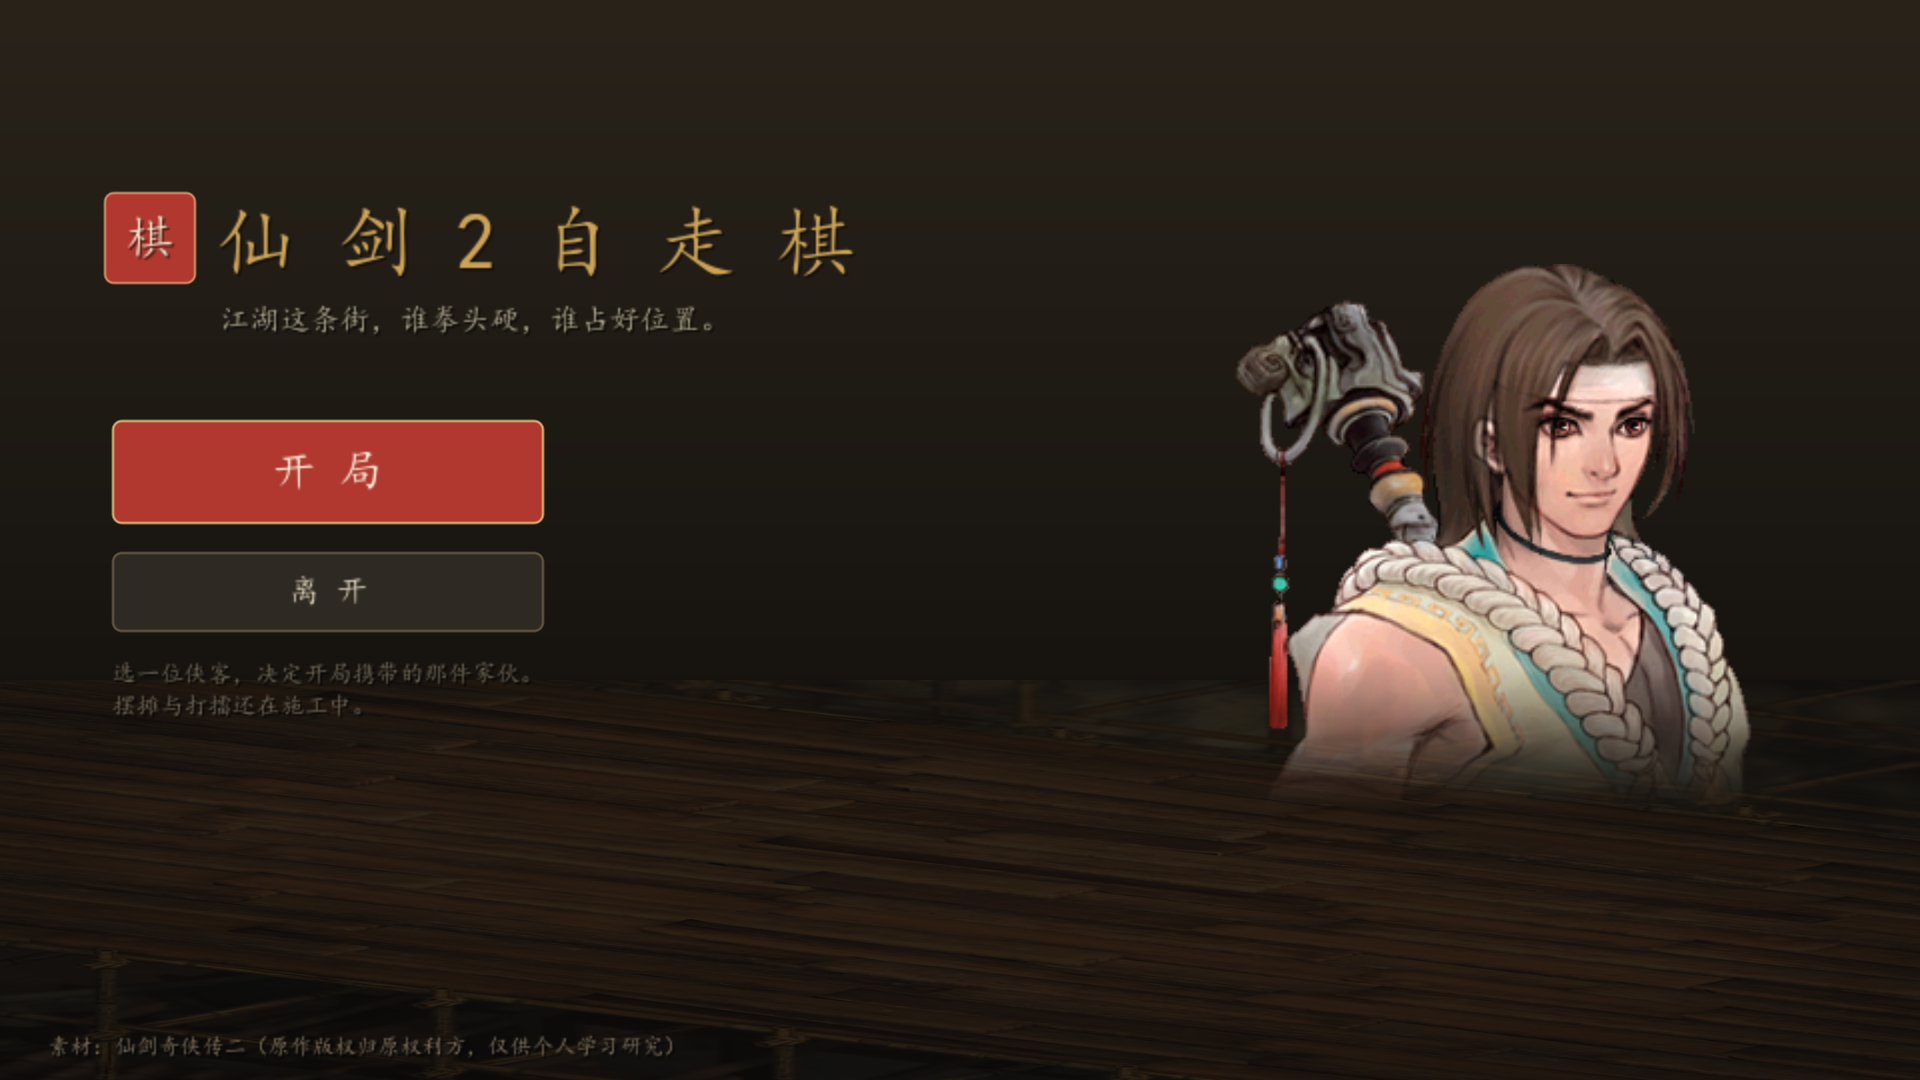
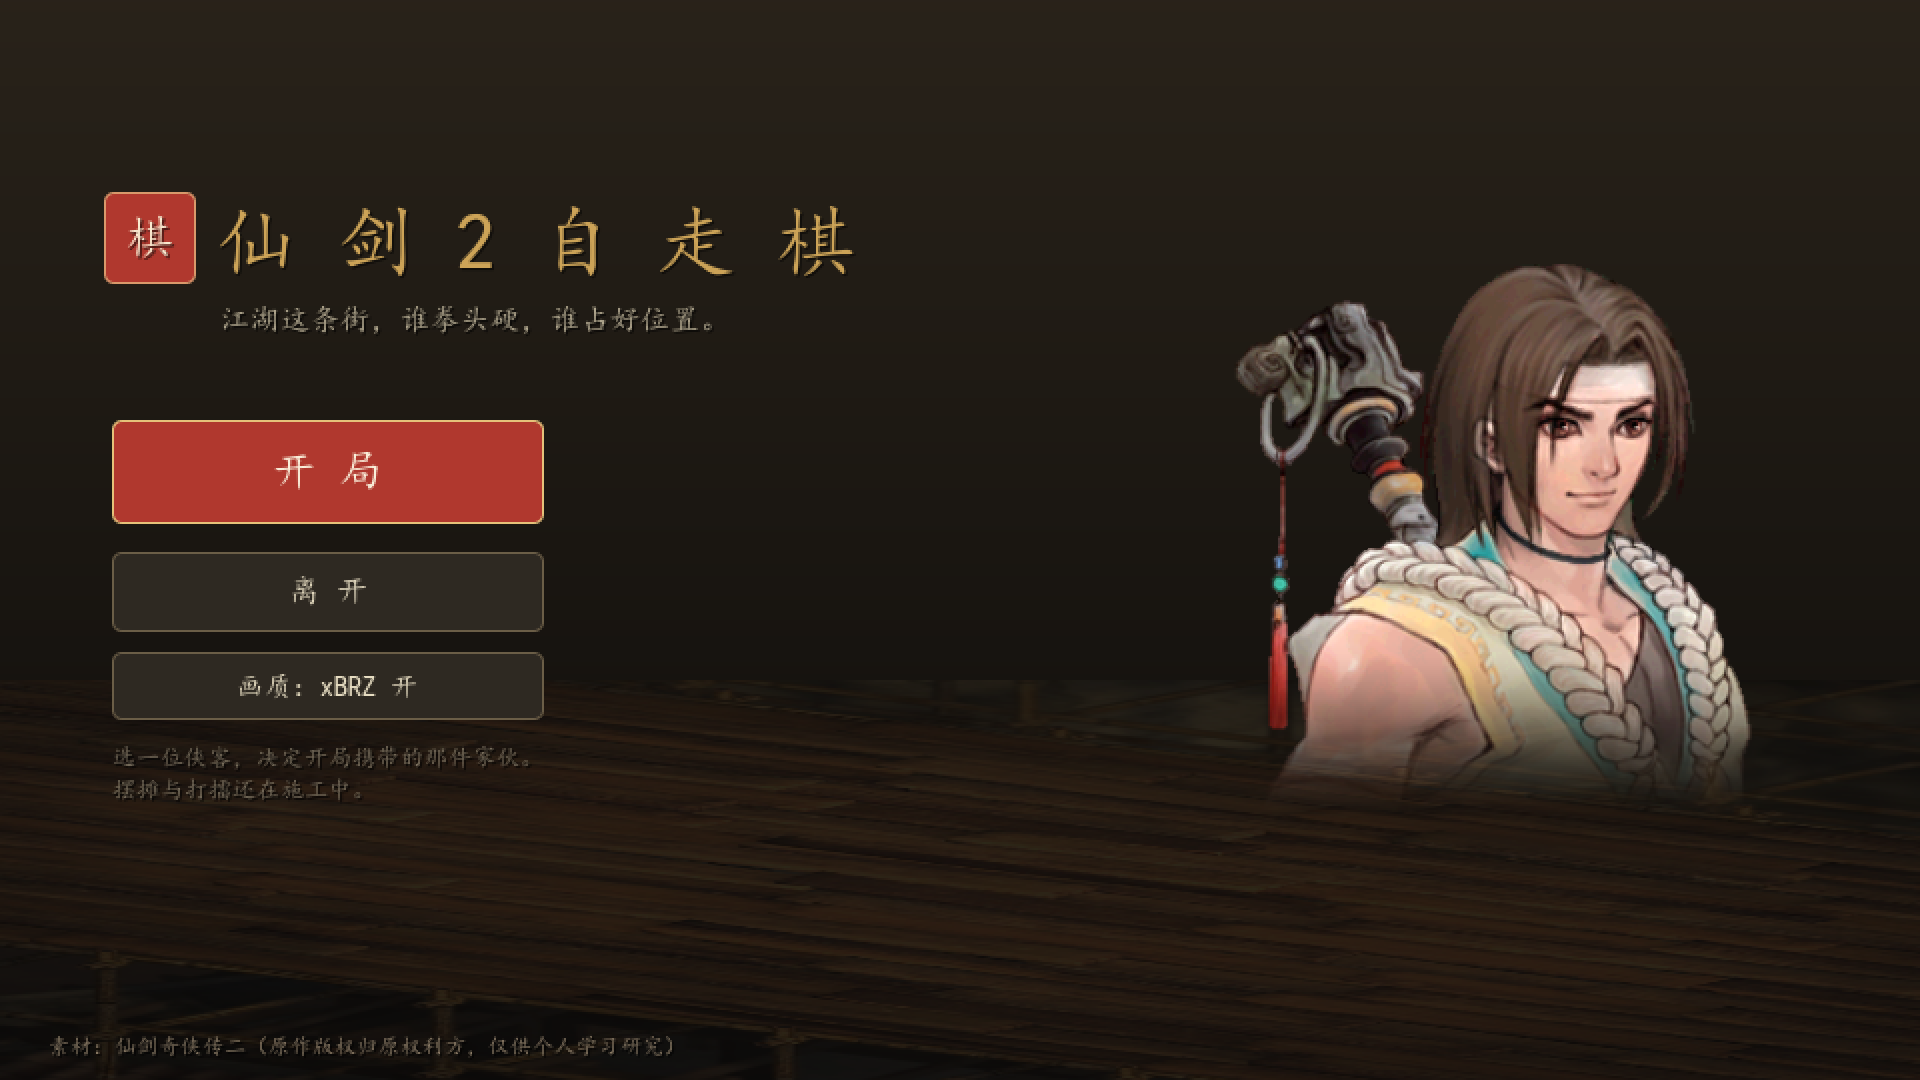
接入 xBRZ 离屏放大管线（可开关）；清理旧项目残留注释

diff --git a/Scripts/GameRoot.cs b/Scripts/GameRoot.cs
@@ -1,20 +1,40 @@
 using Godot;
-using System;
 using TinyFramework;
 
+/// <summary>
+/// 全局入口（autoload）。职责三件：
+///   1. 搭离屏渲染管线：960x540 的 SubViewport 出图，xBRZ 着色器放大到窗口；
+///   2. 按顺序拉起框架管理器（字体 → UI → 音频 → 存档 → 设置）；
+///   3. 打开主界面。
+/// </summary>
 public partial class GameRoot : SingletonNode<GameRoot>
 {
+    /// <summary>逻辑分辨率。所有面板坐标按这个尺寸写，改它要连版面一起改。</summary>
+    public const int LogicWidth = 960;
+    public const int LogicHeight = 540;
+
+    private SubViewport _gameViewport;
+    private CanvasLayer _screenLayer;
+    private TextureRect _screen;
+    private ShaderMaterial _xbrzMaterial;
+
     public override void _EnterTree()
     {
         base._EnterTree();   // 设置 Instance,并在运行时自动 Init()
         if (Engine.IsEditorHint())
+        {
             return;
+        }
 
         // 字体先就位：后面所有面板都靠它
         UiKit.Init();
 
+        // 先有画布，再把 UI 装进去，否则面板会画在根视口上，xBRZ 就无从谈起
+        SetupRenderPipeline();
+
         // 场景树管理器:进入树时由 SingletonNode 自动 Init,此处只需 Create()
         UIManager.Create();
+        AdoptUiIntoViewport();
         AudioManager.Create();
 
         // 全局 2D 辉光环境：引擎原生多尺度 Glow（Godot 版的 bloom 金字塔）。
@@ -25,6 +45,18 @@ public partial class GameRoot : SingletonNode<GameRoot>
         SaveManager.Instance.Init();
         SettingManager.Instance.Init();
 
+        bool xbrz = SettingManager.Data.XbrzEnabled;
+        // 调试开关：--no-xbrz 强关滤镜，用来截对比图（不改存档）
+        string[] args = OS.GetCmdlineArgs();
+        for (int i = 0; i < args.Length; i++)
+        {
+            if (args[i] == "--no-xbrz")
+            {
+                xbrz = false;
+            }
+        }
+        ApplyXbrz(xbrz);
+
         // 入口：主界面（开局 → 选人）
         UIManager.ShowPanel<MainMenuPanel>();
 
@@ -32,21 +64,124 @@ public partial class GameRoot : SingletonNode<GameRoot>
     }
 
     /// <summary>
-    /// 全局 2D Glow 环境（2026-11-16 跨引擎调研后启用，见桌面调研报告 §1）。
-    ///
-    /// Godot 的 glow 就是标准 bloom 管线：HDR 阈值提取 → glow levels 多尺度
-    /// 降采样金字塔 → 上采样累加 → 在 tonemap 之前按 Screen 合成回原图。
-    /// 与 Unity URP / Unreal 的 Bloom 同构，比自研单 pass 描边更贴近物理散射。
-    ///
-    /// 选择性靠 HDR 而不是 layer mask：卡面 / UI / 背景颜色都 &lt;= 1，
-    /// 阈值 1.0 下不会发光；只有 BattleFxGlow 注入过 emissive 的特效像素
-    /// 会超过阈值。先验探针实测过：HDR 块发光、普通块与卡面人物不发光。
-    ///
-    /// 参数来自 6 组实机扫描（preview/scan_envglow_grid.png）的第 0 / 2 组：
-    /// 强度 0.70、只开前 4 级。扫描用实心 HDR 方块，实战是稀疏像素特效，
-    /// 能量少得多，所以比最克制的第 0 组略往上调一档；5~7 级一律不开，
-    /// 否则就是 UE 文档里说的整屏光污染。
-    /// 关闭：注释掉 _EnterTree 里的 SetupGlowEnvironment() 调用即可。
+    /// 离屏画布 + 放大显示。
+    /// 为什么不让 UI 直接画在根视口：根视口就是窗口分辨率，那样 xBRZ 没有低分辨率可放大，
+    /// 只能退化成一次普通的采样。所有 UI 都必须先进 960x540 的 SubViewport。
+    /// </summary>
+    private void SetupRenderPipeline()
+    {
+        _gameViewport = new SubViewport();
+        _gameViewport.Name = "GameViewport";
+        _gameViewport.Size = new Vector2I(LogicWidth, LogicHeight);
+        _gameViewport.RenderTargetUpdateMode = SubViewport.UpdateMode.Always;
+        _gameViewport.HandleInputLocally = true;
+        AddChild(_gameViewport);
+
+        _xbrzMaterial = new ShaderMaterial();
+        _xbrzMaterial.Shader = ResourceLoader.Load<Shader>("res://Resources/Shaders/xbrz.gdshader");
+        _xbrzMaterial.SetShaderParameter("source_size", new Vector2(LogicWidth, LogicHeight));
+
+        _screenLayer = new CanvasLayer();
+        _screenLayer.Name = "ScreenLayer";
+        AddChild(_screenLayer);
+
+        _screen = new TextureRect();
+        _screen.Name = "Screen";
+        _screen.Texture = _gameViewport.GetTexture();
+        _screen.Material = _xbrzMaterial;
+        _screen.ExpandMode = TextureRect.ExpandModeEnum.IgnoreSize;
+        _screen.StretchMode = TextureRect.StretchModeEnum.Scale;
+        // 着色器自己做取样，这一层必须最近邻，否则先被双线性糊一遍再放大
+        _screen.TextureFilter = CanvasItem.TextureFilterEnum.Nearest;
+        _screen.MouseFilter = Control.MouseFilterEnum.Ignore;
+        _screenLayer.AddChild(_screen);
+        _screen.SetAnchorsPreset(Control.LayoutPreset.FullRect);
+        // 进树时窗口尺寸可能还没定，先给个初值，_Process 里再跟着窗口走
+        _screen.Size = GetViewport().GetVisibleRect().Size;
+    }
+
+    /// <summary>UIManager 默认挂在 GameRoot 下（即根视口），这里挪进离屏画布。</summary>
+    private void AdoptUiIntoViewport()
+    {
+        UIManager ui = UIManager.Instance;
+        if (ui == null || _gameViewport == null)
+        {
+            return;
+        }
+
+        if (ui.GetParent() == this)
+        {
+            RemoveChild(ui);
+        }
+        _gameViewport.AddChild(ui);
+    }
+
+    public override void _Process(double delta)
+    {
+        if (_screen == null)
+        {
+            return;
+        }
+
+        // 窗口尺寸变化时把显示层拉满：Control 在 CanvasLayer 下不会自动跟着根视口改
+        Vector2 size = GetViewport().GetVisibleRect().Size;
+        if (_screen.Size != size)
+        {
+            _screen.Position = Vector2.Zero;
+            _screen.Size = size;
+        }
+    }
+
+    /// <summary>开关 xBRZ。关闭时退化为原像素取样（硬边），由着色器的 enabled 控制。</summary>
+    public void ApplyXbrz(bool enabled)
+    {
+        if (_xbrzMaterial == null)
+        {
+            return;
+        }
+
+        _xbrzMaterial.SetShaderParameter("enabled", enabled ? 1.0f : 0.0f);
+        TinyLog.Info("Render", enabled ? "xBRZ 放大：开（960x540 → 窗口）" : "xBRZ 放大：关（原像素）");
+    }
+
+    /// <summary>
+    /// 鼠标事件从窗口坐标换算到逻辑坐标，再塞给离屏画布。
+    /// 用 TextureRect 显示子视口时不会自动转发输入，这一步不能省。
+    /// </summary>
+    public override void _Input(InputEvent @event)
+    {
+        if (_gameViewport == null)
+        {
+            return;
+        }
+
+        InputEventMouse mouse = @event as InputEventMouse;
+        if (mouse == null)
+        {
+            return;
+        }
+
+        Vector2 size = GetViewport().GetVisibleRect().Size;
+        if (size.X <= 0f || size.Y <= 0f)
+        {
+            return;
+        }
+
+        Vector2 scale = new Vector2(LogicWidth / size.X, LogicHeight / size.Y);
+
+        InputEventMouse copy = (InputEventMouse)mouse.Duplicate();
+        copy.Position = mouse.Position * scale;
+        copy.GlobalPosition = copy.Position;
+
+        _gameViewport.PushInput(copy);
+        GetViewport().SetInputAsHandled();
+    }
+
+    /// <summary>
+    /// 全局 2D 辉光（引擎原生 Glow，等价于 bloom 金字塔）。
+    /// 只在 HDR 阈值 1.0 以上的像素上生效：常规 UI 与立绘都 &lt;= 1，不会发光，
+    /// 留给以后战斗特效抬亮度用。强度 0.70、只开前 4 级——5~7 级是全屏级，
+    /// 开了整幅画面会发灰。要关掉就注释掉 _EnterTree 里的调用。
     /// </summary>
     void SetupGlowEnvironment()
     {
@@ -60,8 +195,6 @@ public partial class GameRoot : SingletonNode<GameRoot>
         env.GlowStrength = 1.0f;
         env.GlowBloom = 0.0f;
         env.GlowBlendMode = Godot.Environment.GlowBlendModeEnum.Screen;
-        // 开前 4 级：1~3 给紧贴特效的亮晕，4 给一点外溢；
-        // 5~7 是全屏级，开了会把整片画面染亮（扫描 #3 已验证），一律关闭。
         for (int i = 0; i < 7; i++)
         {
             env.SetGlowLevel(i, i < 4 ? 1.0f : 0.0f);

diff --git a/Scripts/TinyFramework/Setting/SettingData.cs b/Scripts/TinyFramework/Setting/SettingData.cs
@@ -1,36 +1,31 @@
 // 文件：SettingData.cs
-// 作者：急冻雪柜
-// 描述：
-// 日期：2025/11/20 16:37
+// 描述：玩家偏好（音量、倍速、画质）。与局内存档分开：这些是"怎么看"的设置，
+//       换一局、重开都不该被重置。
 
 namespace TinyFramework;
 
-public class SettingData:SaveData
+public class SettingData : SaveData
 {
     public float Volume = 100;
     public float BGMVolume = 100;
     public float SFXVolume = 100;
 
-    /// <summary>UI 主题：0=水墨 / 1=朱漆 / 2=青瓷 / 3=夜行（见 UIThemeManager）。
-    /// 默认夜行：与原有深色视觉连续，升级瞬间不会"突然变脸"；水墨是浅色，留给主动选择。</summary>
-    public int ThemeId = 3;
-
-    /// <summary>数字显示模式:科学表示法(K/M/B/aa 后缀) 或 中文计数法(万/亿/兆/京...)。
-    /// 默认中文:《轮回大侠》是武侠语境,UI 上蹦出 "15.0K" 会出戏;中文单位同时覆盖到 1载(1e44)。</summary>
+    /// <summary>数字显示模式：科学表示法（K/M/B）或中文计数法（万/亿/兆）。
+    /// 默认中文——《仙剑2自走棋》是武侠语境，UI 上蹦出 "15.0K" 会出戏。</summary>
     public NumberFormat NumberFormat = NumberFormat.Chinese;
 
-    /// <summary>自动保存主档（间隔见 SaveBackup.AutoSaveMinutes，默认 10 分钟）。
-    /// 默认开启：放置游戏没有"手动存档"的习惯动作，玩家直接关窗口丢进度是致命的。</summary>
+    /// <summary>自动保存。默认开：玩家不会记得手动存档。</summary>
     public bool AutoSave = true;
 
-    /// <summary>战斗倍速（1 = 正常，2/3 = 快进）。放在设置里而不是存档里：
-    /// 它是"玩家怎么看"的偏好，跟这一世的进度无关，转世也不该被重置。
-    /// 只影响 BattleManager 的模拟推进，不影响倒计时、自动保存与 UI 动效。</summary>
+    /// <summary>战斗倍速（1 = 正常，2 = 快进）。只影响战斗推进，不影响商店与结算。</summary>
     public float BattleSpeed = 1f;
 
-    /// <summary>可选倍速档位。
-    /// 导航条「×N」按钮（循环切换）与设置面板（分段按钮）共用这一份 ——
-    /// 两边各自写一遍，新增档位时必然只改一处，另一处悄悄不同步。
-    /// 同时兼作白名单：存档里不在表内的值一律退回第一档。</summary>
-    public static readonly float[] SpeedSteps = { 1f, 2f, 3f };
+    /// <summary>可选倍速档位。既是设置面板的选项，也是白名单：
+    /// 存档里出现表外的值一律退回第一档。</summary>
+    public static readonly float[] SpeedSteps = { 1f, 2f };
+
+    /// <summary>画面放大是否走 xBRZ 边缘感知滤镜。
+    /// 开：960×540 离屏画布 → 放大到窗口，像素块的对角被磨圆；
+    /// 关：直接按窗口分辨率渲染，字形最锐利。</summary>
+    public bool XbrzEnabled = true;
 }

diff --git a/Scripts/Game/UI/MainMenuPanel.cs b/Scripts/Game/UI/MainMenuPanel.cs
@@ -11,16 +11,16 @@ public class MainMenuPanel : BasePanel
     private const float H = 540f;
 
     private Control _root;
+    private Button _qualityButton;
     private bool _built;
 
     public override void OnBind(Control control)
     {
         base.OnBind(control);
         _root = control;
-        // 版面按 960x540 写；工程画布是 1920x1080，整块按 2 倍放大铺满
+        // 版面按 960x540 写，和离屏画布同尺寸，不需要缩放
         _root.Position = Vector2.Zero;
         _root.Size = new Vector2(960f, 540f);
-        _root.Scale = new Vector2(2f, 2f);
         Build();
     }
 
@@ -28,6 +28,32 @@ public class MainMenuPanel : BasePanel
     {
         base.OnShow();
         AudioManager.PlayBGM("market");
+        RefreshQualityButton();
+    }
+
+    private void RefreshQualityButton()
+    {
+        if (_qualityButton == null)
+        {
+            return;
+        }
+
+        _qualityButton.Text = SettingManager.Data.XbrzEnabled ? "画质：xBRZ 开" : "画质：原像素";
+    }
+
+    private void OnQualityPressed()
+    {
+        bool on = !SettingManager.Data.XbrzEnabled;
+        SettingManager.Data.XbrzEnabled = on;
+        SaveManager.Save(SettingManager.Data);
+
+        if (GameRoot.Instance != null)
+        {
+            GameRoot.Instance.ApplyXbrz(on);
+        }
+
+        RefreshQualityButton();
+        AudioManager.PlayUISFX("ui_click");
     }
 
     private void Build()
@@ -130,9 +156,16 @@ public class MainMenuPanel : BasePanel
         quit.Pressed += OnQuitPressed;
         _root.AddChild(quit);
 
+        _qualityButton = UiKit.MakeButton("画质：xBRZ 开", false);
+        _qualityButton.Position = new Vector2(56f, 326f);
+        _qualityButton.Size = new Vector2(216f, 34f);
+        _qualityButton.AddThemeFontSizeOverride("font_size", 14);
+        _qualityButton.Pressed += OnQualityPressed;
+        _root.AddChild(_qualityButton);
+
         Label hint = UiKit.MakeLabel("选一位侠客，决定开局携带的那件家伙。\n摆摊与打擂还在施工中。",
             12, UiKit.Dim);
-        UiKit.Place(hint, 56f, 330f, 300f, 46f);
+        UiKit.Place(hint, 56f, 372f, 300f, 46f);
         hint.AutowrapMode = TextServer.AutowrapMode.Arbitrary;
         hint.VerticalAlignment = VerticalAlignment.Top;
         _root.AddChild(hint);

diff --git a/Scripts/TinyFramework/Common/BigNum.cs b/Scripts/TinyFramework/Common/BigNum.cs
@@ -1,6 +1,6 @@
 // 文件：BigNum.cs
 // 作者：急冻雪柜
-// 描述：大数系统(尾数+指数, break_infinity 思路)。放置/增量游戏用,可稳定表示到 1e(1e308),且性能远好于 BigInteger。
+// 描述：大数系统(尾数+指数, break_infinity 思路)。可稳定表示到 1e(1e308),性能远好于 BigInteger。
 // 日期：2026/09/23
 
 using System;
@@ -13,7 +13,7 @@ namespace TinyFramework;
 
 /// <summary>
 /// 大数显示模式。
-/// Scientific = 科学表示法(K/M/B/T/aa 字母后缀,放置游戏惯例);
+/// Scientific = 科学表示法(K/M/B/T/aa 字母后缀,常见于数值膨胀类游戏);
 /// Chinese    = 中文计数法(万/亿/兆/京/垓/秭/穰/沟/涧/正/载 万进制单位)。
 /// </summary>
 public enum NumberFormat
@@ -108,7 +108,7 @@ public struct BigNum : IComparable<BigNum>, IEquatable<BigNum>
 
     public static BigNum operator /(BigNum a, BigNum b)
     {
-        if (b.IsZero) return Zero;       // 除以 0 视为 0(放置游戏通常不崩)
+        if (b.IsZero) return Zero;       // 除以 0 视为 0(配置表写错时不至于崩)
         if (a.IsZero) return Zero;
         return Normalize(a.Mantissa / b.Mantissa, a.Exponent - b.Exponent);
     }

diff --git a/Scripts/TinyFramework/Common/TinyLog.cs b/Scripts/TinyFramework/Common/TinyLog.cs
@@ -9,7 +9,7 @@
 //     ② 同一条错误在三个地方各印一遍，无法判断"这是同一个问题还是三个"；
 //     ③ 没有频道，出问题时要通读全部输出才能找到是哪一块在说话。
 //   本类只做三件事：**分级**（Debug 发布版不输出）、**频道**（`[Save]` / `[Audio]` 前缀）、
-//   **统一格式**。不做文件落盘 —— 放置游戏的日志量用 Godot 自己的输出窗口足够，
+//   **统一格式**。不做文件落盘 —— 本项目的日志量用 Godot 自己的输出窗口足够，
 //   真需要落盘再加 FileAccess 写入（别为此引一个日志框架）。
 //
 // 用法：

diff --git a/Scripts/TinyFramework/Save/SaveMigration.cs b/Scripts/TinyFramework/Save/SaveMigration.cs
@@ -5,7 +5,7 @@
 //
 // 为什么要它（2026-11-11 对照 STS2 的 `Core/Saves/Migrations`）：
 //   现在的 `SaveManager.Load` 遇到不认识的版本只能整份作废（GameSave 顶部注释写的策略）。
-//   对放置游戏来说这是最差的结局：玩家挂了三天，一次字段改名就清零。
+//   对局内存档来说这是最差的结局：玩家一路打到第 7 场，一次字段改名就清零。
 //   STS2 用 `IMigration<T>` 一条链把 v1→v2→v3 逐级迁过去；这里取它的内核，但**不绑定强类型**——
 //   迁移直接改 JSON 树，这样不必为每个历史版本保留一份 DTO 类。
 //

diff --git a/Scripts/Game/UI/CharacterSelectPanel.cs b/Scripts/Game/UI/CharacterSelectPanel.cs
@@ -47,10 +47,9 @@ public class CharacterSelectPanel : BasePanel
     {
         base.OnBind(control);
         _root = control;
-        // 版面按 960x540 写；工程画布是 1920x1080，整块按 2 倍放大铺满
+        // 版面按 960x540 写，和离屏画布同尺寸，不需要缩放
         _root.Position = Vector2.Zero;
         _root.Size = new Vector2(960f, 540f);
-        _root.Scale = new Vector2(2f, 2f);
         Build();
     }
 
